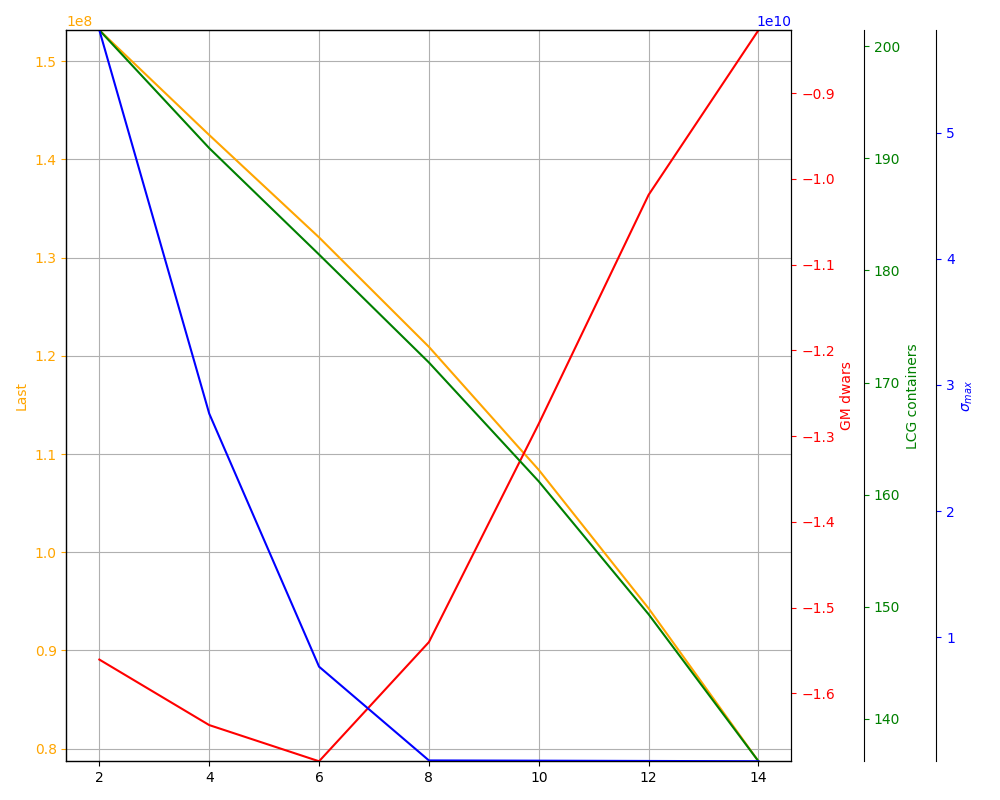
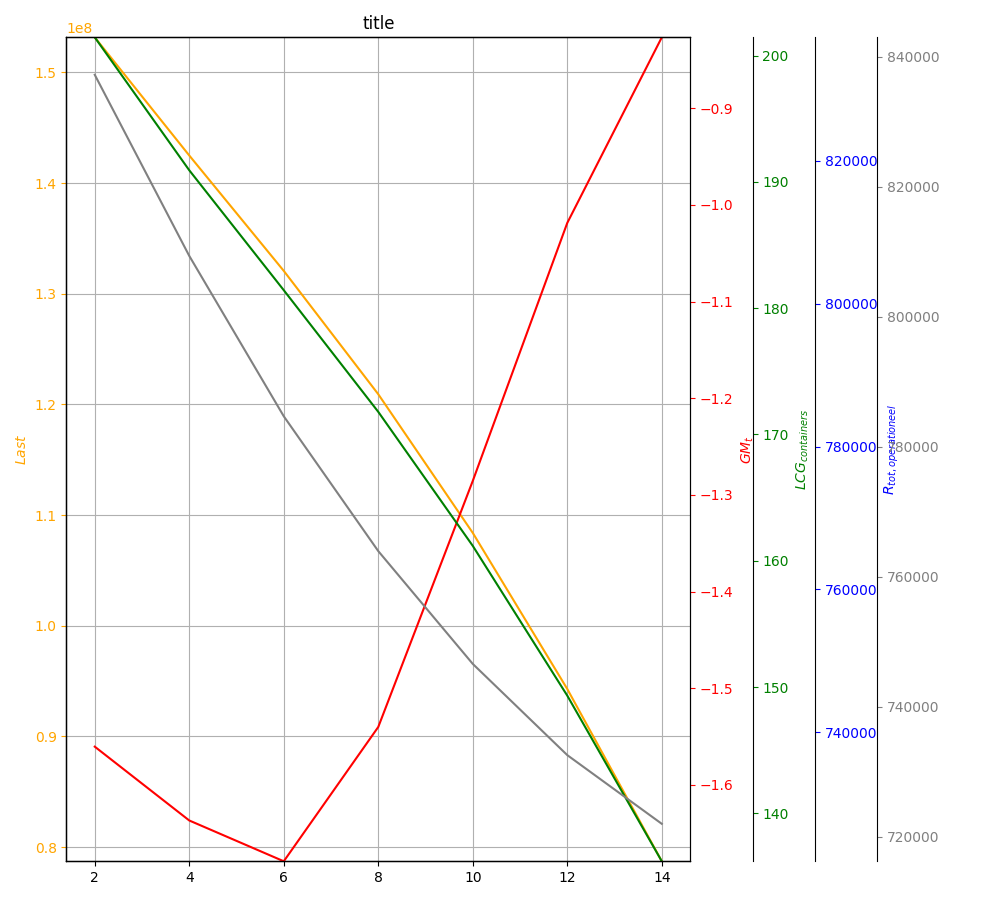
hots

diff --git a/Trendlijnen.py b/Trendlijnen.py
@@ -301,6 +301,7 @@ def trendplotinelkaar(filepath,title):
 
     # Offset the right spine of twin2.  The ticks and label have already been
     # placed on the right by twinx above.
+    twin1.spines.right.set_position(("axes", 1.0))
     twin2.spines.right.set_position(("axes", 1.1))
     twin3.spines.right.set_position(("axes", 1.2))
     twin4.spines.right.set_position(("axes", 1.3))
@@ -310,12 +311,15 @@ def trendplotinelkaar(filepath,title):
     p2, = twin1.plot(variable, data[:,1], label=datalabel[1],c="r")
     p3, = twin2.plot(variable,  data[:,2],label=datalabel[2],c="g")
     p4, = twin3.plot(variable,  data[:,3], label=datalabel[3],c="b")
-    p5, = twin3.plot(variable,  data[:,4], label=datalabel[4],c="grey")
+    p5, = twin4.plot(variable,  data[:,4], label=datalabel[4],c="grey")
     ax.set(ylabel=datalabel[0],ylim=(min(data[:,0]),max(data[:,0])))
     twin1.set(ylabel=datalabel[1],ylim=(min(data[:,1]),max(data[:,1])))
     twin2.set(ylabel=datalabel[2],ylim=(min(data[:,2]),max(data[:,2])))
     twin3.set(ylabel=datalabel[3],ylim=(min(data[:,3]),max(data[:,3])))
-    twin3.set(ylabel=datalabel[4],ylim=(min(data[:,4]),max(data[:,4])))
+    try:
+        twin3.set(ylabel=datalabel[4],ylim=(min(data[:,4]),max(data[:,4])))
+    except ValueError:
+        twin3.set(ylabel=datalabel[4],ylim=(0,10E7))
 
     ax.yaxis.label.set_color(p1.get_color())
     twin1.yaxis.label.set_color(p2.get_color())
@@ -330,6 +334,7 @@ def trendplotinelkaar(filepath,title):
 
 #    ax.legend(handles=[p1, p2, p3,p4])
     ax.grid()
+    ax.set_title("title")
     plt.tight_layout()
     plt.savefig(r".\variatie onderzoek\ "+title+".png")
 
@@ -364,7 +369,7 @@ def trendplot(filepath,title):
 
 trendplotinelkaar(r".\variatie onderzoek\bilgeradius verandering.xlsx","bilge")
 trendplotinelkaar(r".\variatie onderzoek\breedte verandering.xlsx","breedte")
-#trendplotinelkaar(r".\variatie onderzoek\diepgangs verandering.xlsx","diepgang")
+trendplotinelkaar(r".\variatie onderzoek\diepgangs verandering.xlsx","diepgang")
 trendplotinelkaar(r".\variatie onderzoek\holte verandering.xlsx","holte")
 trendplotinelkaar(r".\variatie onderzoek\intrede hoek verandering.xlsx","intrede hoek")
 trendplotinelkaar(r".\variatie onderzoek\lengte verandering.xlsx","midship")
